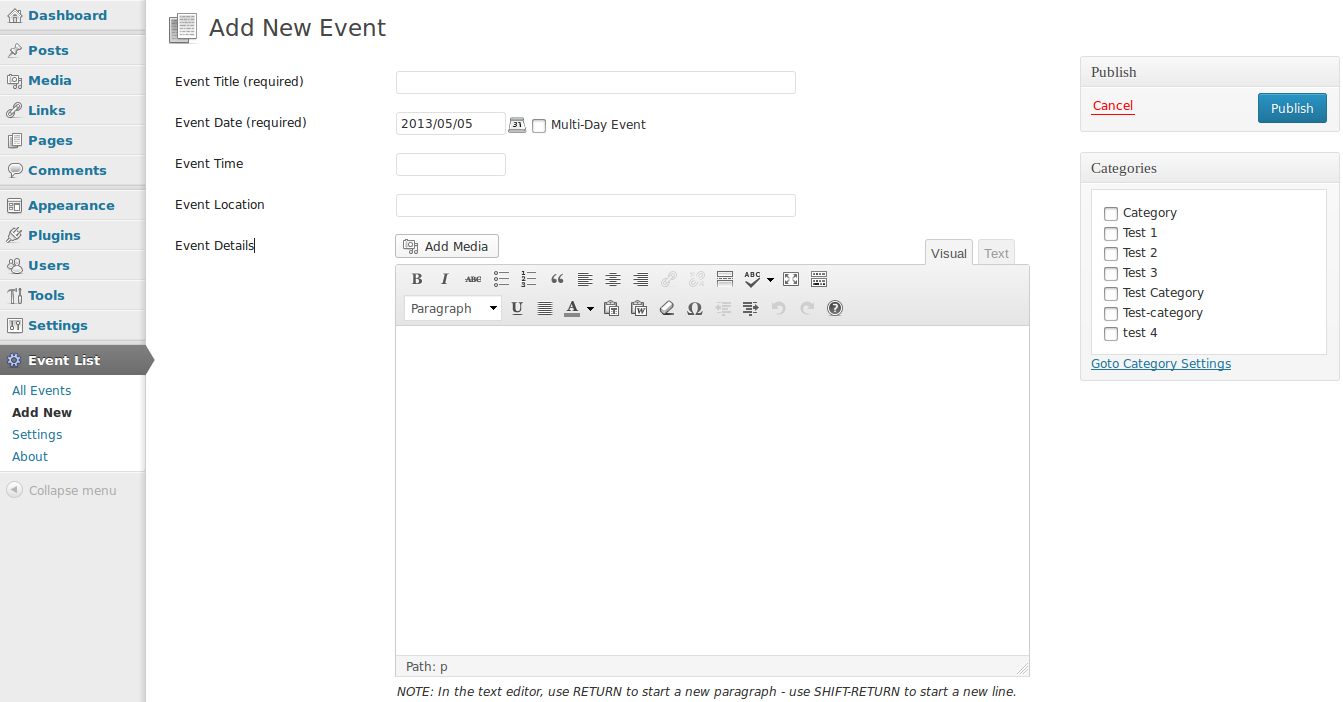
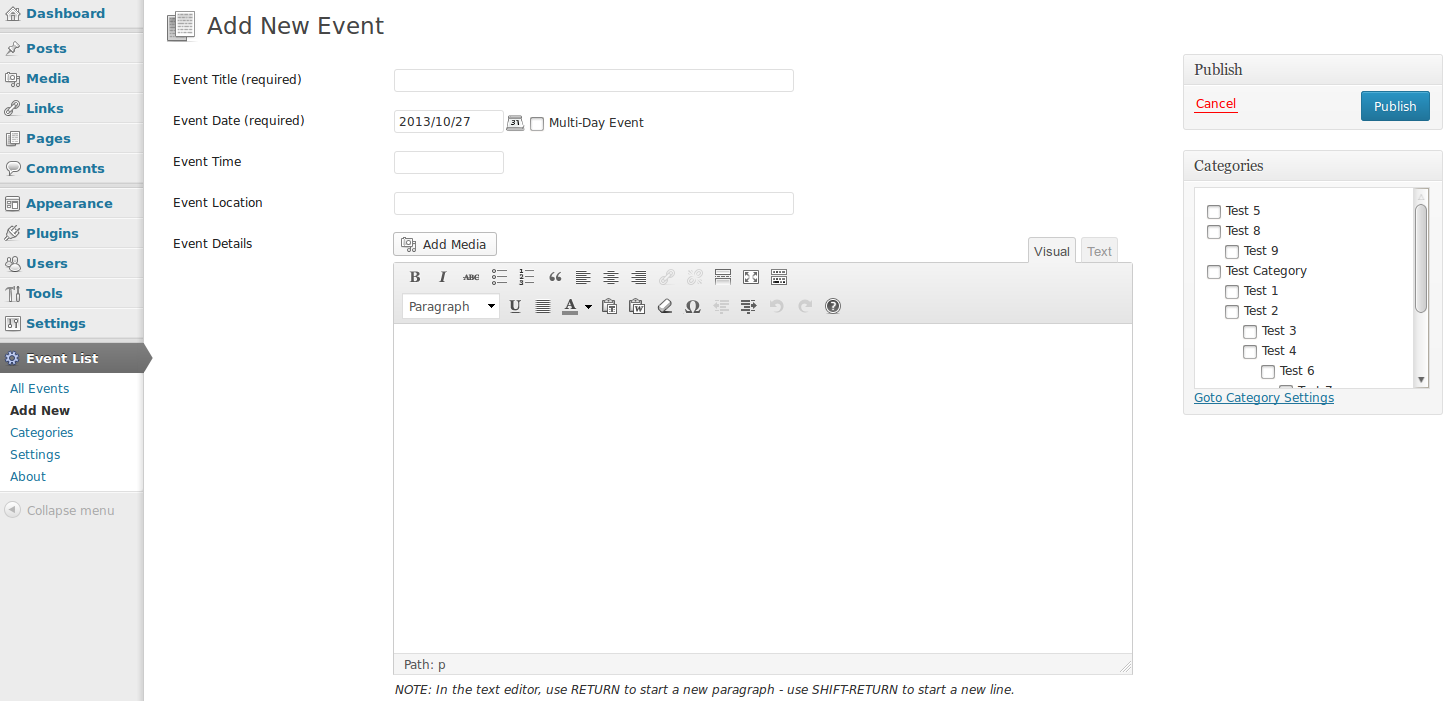
praparation for version 0.5.0; updated screenshots

diff --git a/event-list.php b/event-list.php
@@ -3,7 +3,7 @@
 Plugin Name: Event List
 Plugin URI: http://wordpress.org/extend/plugins/event-list/
 Description: Manage your events and show them in a list view on your site.
-Version: 0.4.5
+Version: 0.5.0
 Author: Michael Burtscher
 Author URI: http://wordpress.org/extend/plugins/event-list/
 License: GPLv2
